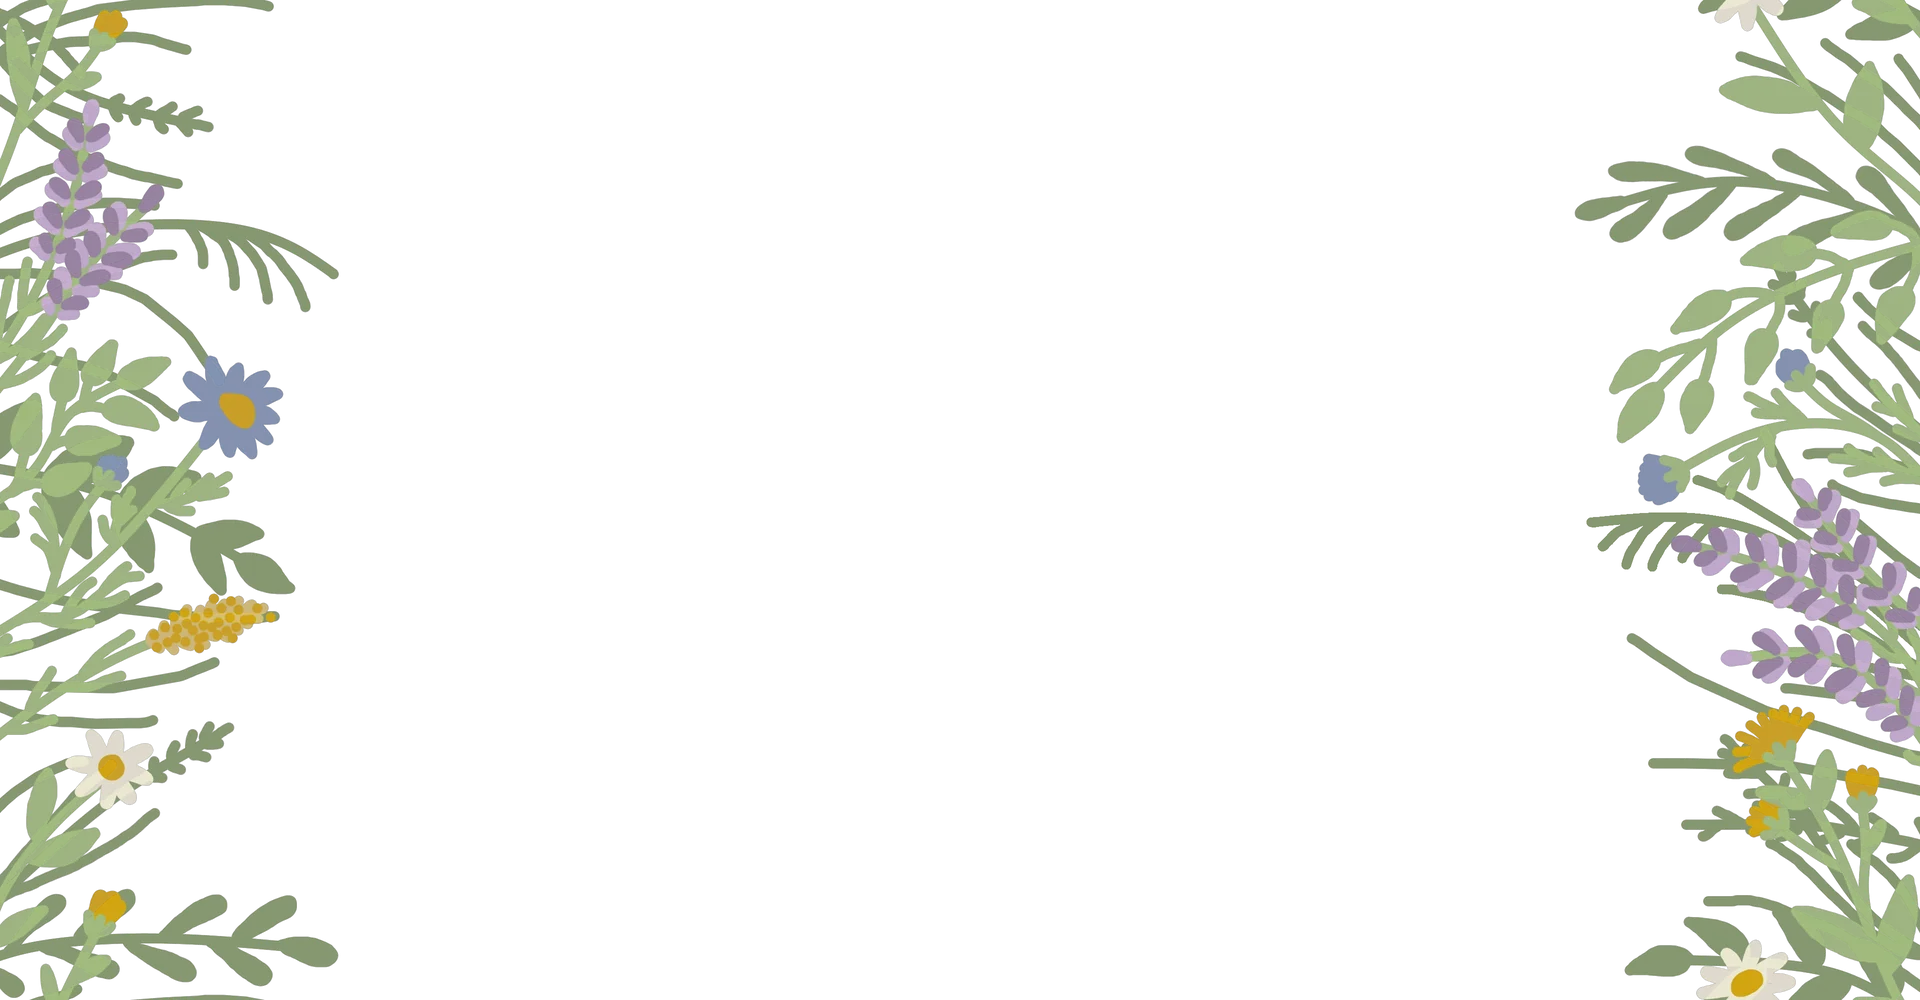
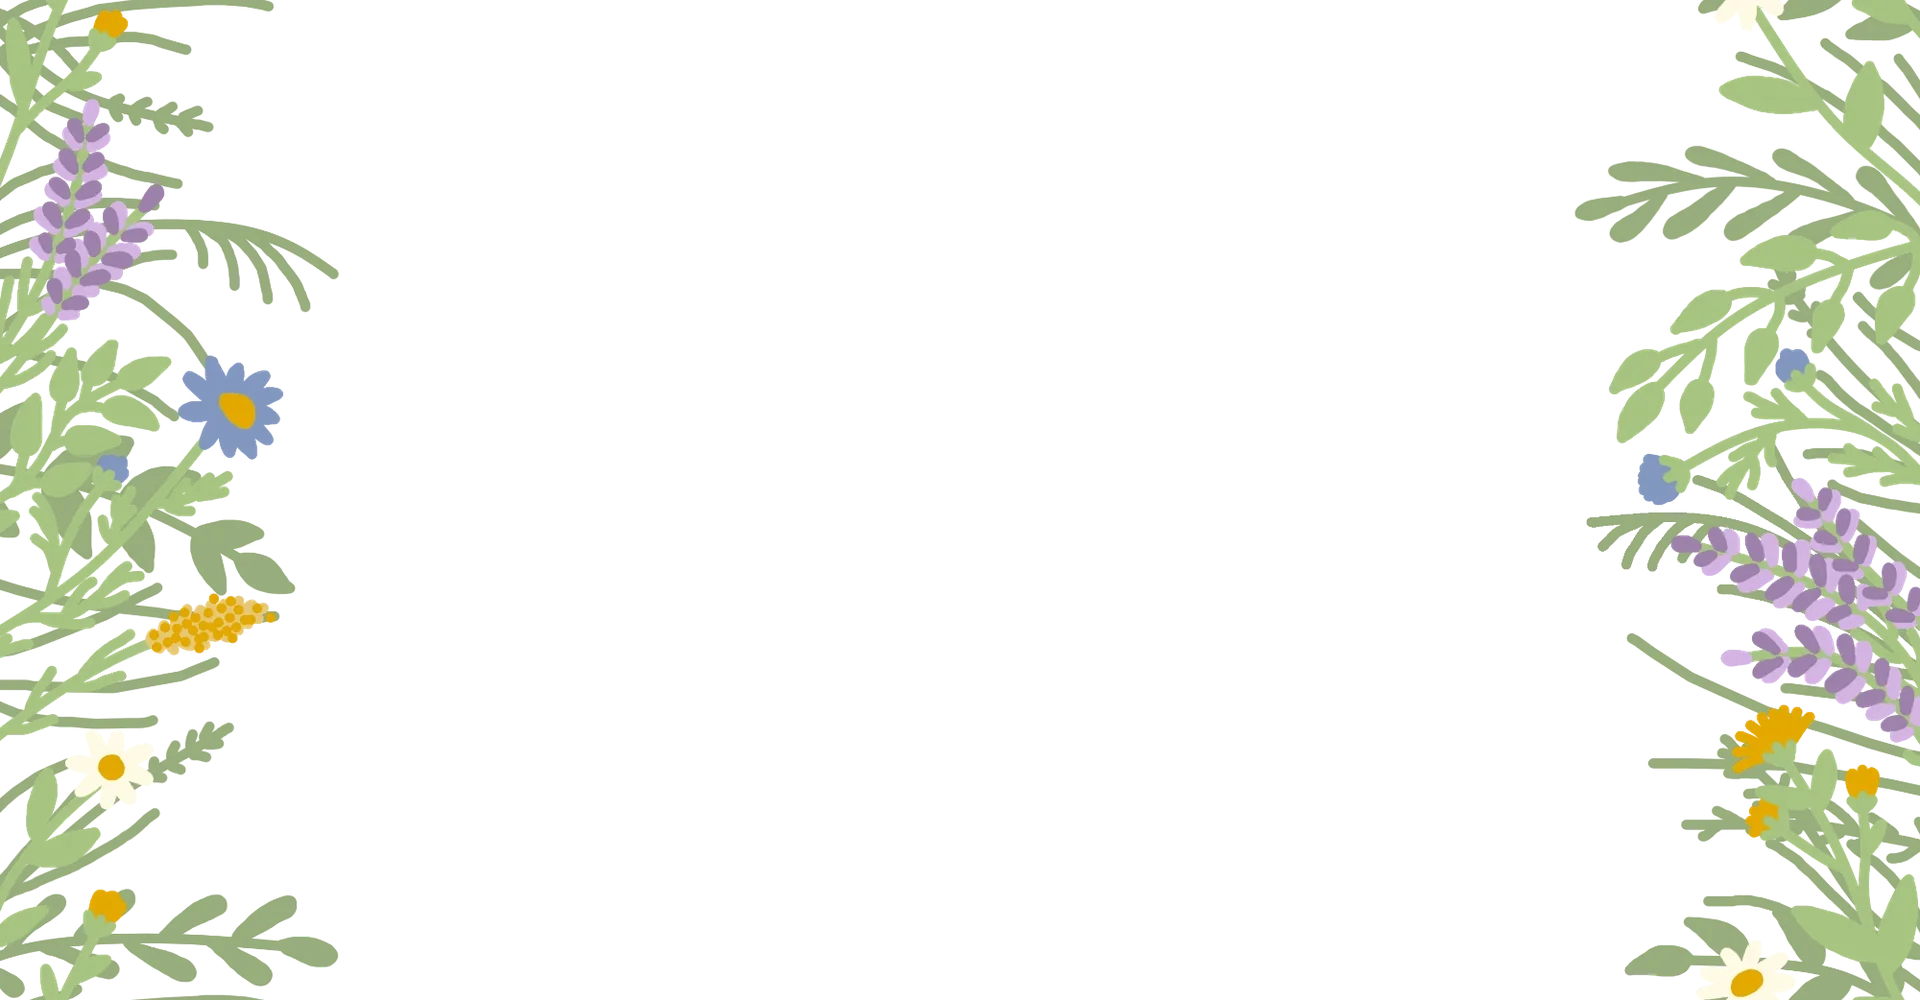
Meadow: the artist's re-exported flowers, so the front flowers cover the ones behind
The top layer of flowers is now more opaque in the artwork itself, so the
lower layer no longer shows through as the background gets darker. The
layer stays at 75% to keep the gradient effect. Assets bumped to v=99.

Claude-Session: https://claude.ai/code/session_01AKYuNggPa5w9iRuLumobCr

diff --git a/profile.html b/profile.html
@@ -18,8 +18,8 @@
   <meta name="twitter:card" content="summary_large_image" />
   <link rel="preconnect" href="https://fonts.googleapis.com" />
   <link href="https://fonts.googleapis.com/css2?family=Fraunces:wght@500;600&family=Work+Sans:wght@400;500;600&display=swap" rel="stylesheet" />
-  <link rel="stylesheet" href="style.css?v=98" />
-  <script src="a11y.js?v=98"></script>
+  <link rel="stylesheet" href="style.css?v=99" />
+  <script src="a11y.js?v=99"></script>
 </head>
 <body>
   <header class="site-header">
@@ -66,13 +66,13 @@
     <section id="profile-posts" class="feed"><p class="feed-empty is-loading">Loading…</p></section>
   </main>
   <script src="https://cdn.jsdelivr.net/npm/@supabase/supabase-js@2"></script>
-  <script src="supabase-client.js?v=98"></script>
-  <script src="profile-fields.js?v=98"></script>
-  <script src="nav-menu.js?v=98"></script>
-  <script src="ui.js?v=98"></script>
-  <script src="edit-forms.js?v=98"></script>
-  <script src="biome.js?v=98"></script>
-  <script src="report.js?v=98"></script>
-  <script src="profile.js?v=98"></script>
+  <script src="supabase-client.js?v=99"></script>
+  <script src="profile-fields.js?v=99"></script>
+  <script src="nav-menu.js?v=99"></script>
+  <script src="ui.js?v=99"></script>
+  <script src="edit-forms.js?v=99"></script>
+  <script src="biome.js?v=99"></script>
+  <script src="report.js?v=99"></script>
+  <script src="profile.js?v=99"></script>
 </body>
 </html>

diff --git a/reviews.html b/reviews.html
@@ -18,8 +18,8 @@
   <meta name="twitter:card" content="summary_large_image" />
   <link rel="preconnect" href="https://fonts.googleapis.com" />
   <link href="https://fonts.googleapis.com/css2?family=Fraunces:wght@500;600&family=Work+Sans:wght@400;500;600&display=swap" rel="stylesheet" />
-  <link rel="stylesheet" href="style.css?v=98" />
-  <script src="a11y.js?v=98"></script>
+  <link rel="stylesheet" href="style.css?v=99" />
+  <script src="a11y.js?v=99"></script>
 </head>
 <body data-biome="forest">
   <header class="site-header">
@@ -122,12 +122,12 @@
     </section>
   </main>
   <script src="https://cdn.jsdelivr.net/npm/@supabase/supabase-js@2"></script>
-  <script src="supabase-client.js?v=98"></script>
-  <script src="profile-fields.js?v=98"></script>
-  <script src="nav-menu.js?v=98"></script>
-  <script src="ui.js?v=98"></script>
-  <script src="edit-forms.js?v=98"></script>
-  <script src="report.js?v=98"></script>
-  <script src="reviews.js?v=98"></script>
+  <script src="supabase-client.js?v=99"></script>
+  <script src="profile-fields.js?v=99"></script>
+  <script src="nav-menu.js?v=99"></script>
+  <script src="ui.js?v=99"></script>
+  <script src="edit-forms.js?v=99"></script>
+  <script src="report.js?v=99"></script>
+  <script src="reviews.js?v=99"></script>
 </body>
 </html>

diff --git a/feed.html b/feed.html
@@ -19,8 +19,8 @@
 
   <link rel="preconnect" href="https://fonts.googleapis.com" />
   <link href="https://fonts.googleapis.com/css2?family=Fraunces:wght@500;600&family=Work+Sans:wght@400;500;600&display=swap" rel="stylesheet" />
-  <link rel="stylesheet" href="style.css?v=98" />
-  <script src="a11y.js?v=98"></script>
+  <link rel="stylesheet" href="style.css?v=99" />
+  <script src="a11y.js?v=99"></script>
 </head>
 <body data-biome="forest">
 
@@ -84,13 +84,13 @@
   </main>
 
   <script src="https://cdn.jsdelivr.net/npm/@supabase/supabase-js@2"></script>
-  <script src="supabase-client.js?v=98"></script>
-  <script src="profile-fields.js?v=98"></script>
-  <script src="nav-menu.js?v=98"></script>
-  <script src="ui.js?v=98"></script>
-  <script src="edit-forms.js?v=98"></script>
-  <script src="report.js?v=98"></script>
-  <script src="polls.js?v=98"></script>
-  <script src="feed.js?v=98"></script>
+  <script src="supabase-client.js?v=99"></script>
+  <script src="profile-fields.js?v=99"></script>
+  <script src="nav-menu.js?v=99"></script>
+  <script src="ui.js?v=99"></script>
+  <script src="edit-forms.js?v=99"></script>
+  <script src="report.js?v=99"></script>
+  <script src="polls.js?v=99"></script>
+  <script src="feed.js?v=99"></script>
 </body>
 </html>

diff --git a/moderate-products.html b/moderate-products.html
@@ -19,8 +19,8 @@
 
   <link rel="preconnect" href="https://fonts.googleapis.com" />
   <link href="https://fonts.googleapis.com/css2?family=Fraunces:wght@500;600&family=Work+Sans:wght@400;500;600&display=swap" rel="stylesheet" />
-  <link rel="stylesheet" href="style.css?v=98" />
-  <script src="a11y.js?v=98"></script>
+  <link rel="stylesheet" href="style.css?v=99" />
+  <script src="a11y.js?v=99"></script>
 </head>
 <body>
 
@@ -63,11 +63,11 @@
   </main>
 
   <script src="https://cdn.jsdelivr.net/npm/@supabase/supabase-js@2"></script>
-  <script src="supabase-client.js?v=98"></script>
-  <script src="profile-fields.js?v=98"></script>
-  <script src="nav-menu.js?v=98"></script>
-  <script src="ui.js?v=98"></script>
-  <script src="product-match.js?v=98"></script>
-  <script src="moderate-products.js?v=98"></script>
+  <script src="supabase-client.js?v=99"></script>
+  <script src="profile-fields.js?v=99"></script>
+  <script src="nav-menu.js?v=99"></script>
+  <script src="ui.js?v=99"></script>
+  <script src="product-match.js?v=99"></script>
+  <script src="moderate-products.js?v=99"></script>
 </body>
 </html>

diff --git a/edit-profile.html b/edit-profile.html
@@ -18,8 +18,8 @@
   <meta name="twitter:card" content="summary_large_image" />
   <link rel="preconnect" href="https://fonts.googleapis.com" />
   <link href="https://fonts.googleapis.com/css2?family=Fraunces:wght@500;600&family=Work+Sans:wght@400;500;600&display=swap" rel="stylesheet" />
-  <link rel="stylesheet" href="style.css?v=98" />
-  <script src="a11y.js?v=98"></script>
+  <link rel="stylesheet" href="style.css?v=99" />
+  <script src="a11y.js?v=99"></script>
 </head>
 <body>
   <header class="site-header">
@@ -99,10 +99,10 @@
   </main>
 
   <script src="https://cdn.jsdelivr.net/npm/@supabase/supabase-js@2"></script>
-  <script src="supabase-client.js?v=98"></script>
-  <script src="profile-fields.js?v=98"></script>
-  <script src="nav-menu.js?v=98"></script>
-  <script src="ui.js?v=98"></script>
-  <script src="edit-profile.js?v=98"></script>
+  <script src="supabase-client.js?v=99"></script>
+  <script src="profile-fields.js?v=99"></script>
+  <script src="nav-menu.js?v=99"></script>
+  <script src="ui.js?v=99"></script>
+  <script src="edit-profile.js?v=99"></script>
 </body>
 </html>

diff --git a/reset-password.html b/reset-password.html
@@ -19,8 +19,8 @@
 
   <link rel="preconnect" href="https://fonts.googleapis.com" />
   <link href="https://fonts.googleapis.com/css2?family=Fraunces:wght@500;600&family=Work+Sans:wght@400;500;600&display=swap" rel="stylesheet" />
-  <link rel="stylesheet" href="style.css?v=98" />
-  <script src="a11y.js?v=98"></script>
+  <link rel="stylesheet" href="style.css?v=99" />
+  <script src="a11y.js?v=99"></script>
   <!-- Note what the email link said before Supabase tidies the address bar -->
   <script>window.resetLinkParams = window.location.hash.slice(1) + "&" + window.location.search.slice(1);</script>
 </head>
@@ -69,9 +69,9 @@
   </main>
 
   <script src="https://cdn.jsdelivr.net/npm/@supabase/supabase-js@2"></script>
-  <script src="supabase-client.js?v=98"></script>
-  <script src="nav-menu.js?v=98"></script>
-  <script src="ui.js?v=98"></script>
-  <script src="reset-password.js?v=98"></script>
+  <script src="supabase-client.js?v=99"></script>
+  <script src="nav-menu.js?v=99"></script>
+  <script src="ui.js?v=99"></script>
+  <script src="reset-password.js?v=99"></script>
 </body>
 </html>

diff --git a/signup.html b/signup.html
@@ -19,8 +19,8 @@
 
   <link rel="preconnect" href="https://fonts.googleapis.com" />
   <link href="https://fonts.googleapis.com/css2?family=Fraunces:wght@500;600&family=Work+Sans:wght@400;500;600&display=swap" rel="stylesheet" />
-  <link rel="stylesheet" href="style.css?v=98" />
-  <script src="a11y.js?v=98"></script>
+  <link rel="stylesheet" href="style.css?v=99" />
+  <script src="a11y.js?v=99"></script>
 </head>
 <body>
 
@@ -76,11 +76,11 @@
   <!-- Supabase's own code library, loaded from their servers -->
   <script src="https://cdn.jsdelivr.net/npm/@supabase/supabase-js@2"></script>
   <!-- Our shared connection setup -->
-  <script src="supabase-client.js?v=98"></script>
+  <script src="supabase-client.js?v=99"></script>
   <!-- Hamburger menu behavior -->
-  <script src="nav-menu.js?v=98"></script>
-  <script src="ui.js?v=98"></script>
+  <script src="nav-menu.js?v=99"></script>
+  <script src="ui.js?v=99"></script>
   <!-- The logic specific to this page -->
-  <script src="signup.js?v=98"></script>
+  <script src="signup.js?v=99"></script>
 </body>
 </html>

diff --git a/notifications.html b/notifications.html
@@ -18,8 +18,8 @@
   <meta name="twitter:card" content="summary_large_image" />
   <link rel="preconnect" href="https://fonts.googleapis.com" />
   <link href="https://fonts.googleapis.com/css2?family=Fraunces:wght@500;600&family=Work+Sans:wght@400;500;600&display=swap" rel="stylesheet" />
-  <link rel="stylesheet" href="style.css?v=98" />
-  <script src="a11y.js?v=98"></script>
+  <link rel="stylesheet" href="style.css?v=99" />
+  <script src="a11y.js?v=99"></script>
 </head>
 <body>
   <header class="site-header">
@@ -39,9 +39,9 @@
     </section>
   </main>
   <script src="https://cdn.jsdelivr.net/npm/@supabase/supabase-js@2"></script>
-  <script src="supabase-client.js?v=98"></script>
-  <script src="nav-menu.js?v=98"></script>
-  <script src="ui.js?v=98"></script>
-  <script src="notifications.js?v=98"></script>
+  <script src="supabase-client.js?v=99"></script>
+  <script src="nav-menu.js?v=99"></script>
+  <script src="ui.js?v=99"></script>
+  <script src="notifications.js?v=99"></script>
 </body>
 </html>

diff --git a/suggest-product.html b/suggest-product.html
@@ -19,8 +19,8 @@
 
   <link rel="preconnect" href="https://fonts.googleapis.com" />
   <link href="https://fonts.googleapis.com/css2?family=Fraunces:wght@500;600&family=Work+Sans:wght@400;500;600&display=swap" rel="stylesheet" />
-  <link rel="stylesheet" href="style.css?v=98" />
-  <script src="a11y.js?v=98"></script>
+  <link rel="stylesheet" href="style.css?v=99" />
+  <script src="a11y.js?v=99"></script>
 </head>
 <body>
 
@@ -86,10 +86,10 @@
   </main>
 
   <script src="https://cdn.jsdelivr.net/npm/@supabase/supabase-js@2"></script>
-  <script src="supabase-client.js?v=98"></script>
-  <script src="nav-menu.js?v=98"></script>
-  <script src="ui.js?v=98"></script>
-  <script src="product-match.js?v=98"></script>
-  <script src="suggest-product.js?v=98"></script>
+  <script src="supabase-client.js?v=99"></script>
+  <script src="nav-menu.js?v=99"></script>
+  <script src="ui.js?v=99"></script>
+  <script src="product-match.js?v=99"></script>
+  <script src="suggest-product.js?v=99"></script>
 </body>
 </html>

diff --git a/invite.html b/invite.html
@@ -18,8 +18,8 @@
   <meta name="twitter:card" content="summary_large_image" />
   <link rel="preconnect" href="https://fonts.googleapis.com" />
   <link href="https://fonts.googleapis.com/css2?family=Fraunces:wght@500;600&family=Work+Sans:wght@400;500;600&display=swap" rel="stylesheet" />
-  <link rel="stylesheet" href="style.css?v=98" />
-  <script src="a11y.js?v=98"></script>
+  <link rel="stylesheet" href="style.css?v=99" />
+  <script src="a11y.js?v=99"></script>
 </head>
 <body>
   <header class="site-header">
@@ -39,9 +39,9 @@
     </div>
   </main>
   <script src="https://cdn.jsdelivr.net/npm/@supabase/supabase-js@2"></script>
-  <script src="supabase-client.js?v=98"></script>
-  <script src="nav-menu.js?v=98"></script>
-  <script src="ui.js?v=98"></script>
-  <script src="invite.js?v=98"></script>
+  <script src="supabase-client.js?v=99"></script>
+  <script src="nav-menu.js?v=99"></script>
+  <script src="ui.js?v=99"></script>
+  <script src="invite.js?v=99"></script>
 </body>
 </html>

diff --git a/byome-shop.html b/byome-shop.html
@@ -19,8 +19,8 @@
 
   <link rel="preconnect" href="https://fonts.googleapis.com" />
   <link href="https://fonts.googleapis.com/css2?family=Fraunces:wght@500;600&family=Work+Sans:wght@400;500;600&display=swap" rel="stylesheet" />
-  <link rel="stylesheet" href="style.css?v=98" />
-  <script src="a11y.js?v=98"></script>
+  <link rel="stylesheet" href="style.css?v=99" />
+  <script src="a11y.js?v=99"></script>
 </head>
 <body>
 
@@ -50,10 +50,10 @@
   </main>
 
   <script src="https://cdn.jsdelivr.net/npm/@supabase/supabase-js@2"></script>
-  <script src="supabase-client.js?v=98"></script>
-  <script src="nav-menu.js?v=98"></script>
-  <script src="ui.js?v=98"></script>
-  <script src="biome.js?v=98"></script>
-  <script src="biome-shop.js?v=98"></script>
+  <script src="supabase-client.js?v=99"></script>
+  <script src="nav-menu.js?v=99"></script>
+  <script src="ui.js?v=99"></script>
+  <script src="biome.js?v=99"></script>
+  <script src="biome-shop.js?v=99"></script>
 </body>
 </html>

diff --git a/terms.html b/terms.html
@@ -18,8 +18,8 @@
   <meta name="twitter:card" content="summary_large_image" />
   <link rel="preconnect" href="https://fonts.googleapis.com" />
   <link href="https://fonts.googleapis.com/css2?family=Fraunces:wght@500;600&family=Work+Sans:wght@400;500;600&display=swap" rel="stylesheet" />
-  <link rel="stylesheet" href="style.css?v=98" />
-  <script src="a11y.js?v=98"></script>
+  <link rel="stylesheet" href="style.css?v=99" />
+  <script src="a11y.js?v=99"></script>
 </head>
 <body>
   <header class="site-header">
@@ -73,8 +73,8 @@
     <p>See also our <a class="inline-link" href="privacy.html">privacy policy</a>.</p>
   </main>
   <script src="https://cdn.jsdelivr.net/npm/@supabase/supabase-js@2"></script>
-  <script src="supabase-client.js?v=98"></script>
-  <script src="nav-menu.js?v=98"></script>
-  <script src="ui.js?v=98"></script>
+  <script src="supabase-client.js?v=99"></script>
+  <script src="nav-menu.js?v=99"></script>
+  <script src="ui.js?v=99"></script>
 </body>
 </html>
